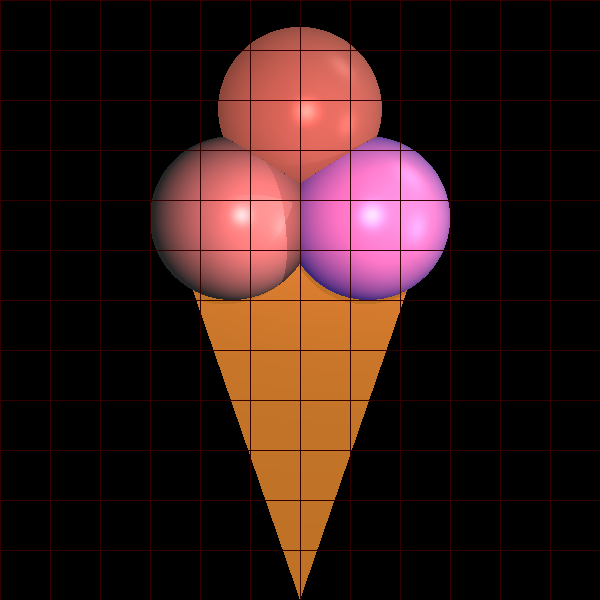
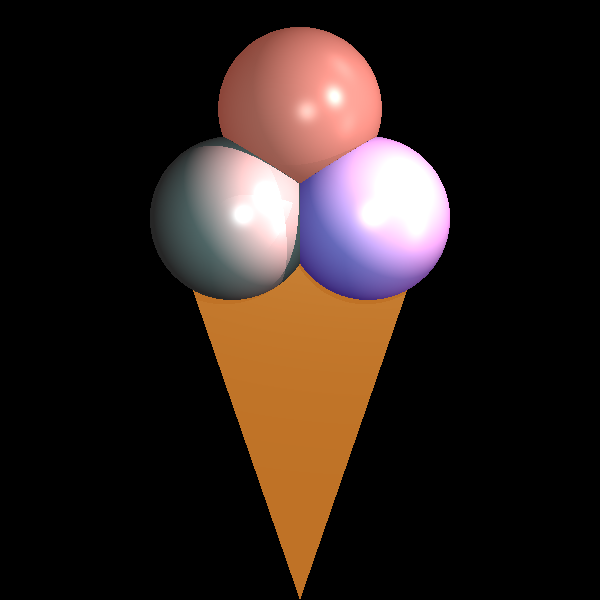
MiniProject1

diff --git a/src/renderer/Camera.java b/src/renderer/Camera.java
@@ -4,6 +4,8 @@
 package renderer;
 import static primitives.Util.*;
 
+import java.util.ArrayList;
+import java.util.List;
 import java.util.MissingResourceException;
 
 import primitives.*;
@@ -25,8 +27,8 @@ public class Camera {
     private double distance; // The distance of the camera display from the location
     private ImageWriter imageWriter; // The image writer used for output
     private RayTracerBase rayTracer; // The ray tracer used for rendering
-    private int numRowPixels;
-    private int numColPixels;
+    private int numOfRays=1;//the paramter of the number of rays
+   
 
     /**
      * Returns the location of the camera.
@@ -122,6 +124,7 @@ public class Camera {
         this.height = height;
         return this;
     }
+    
 
     /**
      * Sets the distance of the camera display.
@@ -133,6 +136,21 @@ public class Camera {
 		this.distance=distance;
 		return this;
 	}
+	/**
+	 * A setter function for parameter num of rays
+	 * this function return the object - this for builder pattern
+	 * 
+	 * @param The Camera object itself.
+	 * */
+	public Camera setNumOfRays(int numOfRays)
+	{
+		if(numOfRays == 0)
+			this.numOfRays=1;
+		else
+		 this.numOfRays = numOfRays;
+		return this;
+	}
+	
 	/**
 	 * Construction of a ray: produces a ray according to the position of a display point on the camera display 
 	 * and uses the use of the appropriate vector according to the position and angles of the camera.
@@ -197,8 +215,29 @@ public class Camera {
 	    throw new MissingResourceException("Missing filed in camera","","");
 	if (this.rayTracer == null)
 	throw new UnsupportedOperationException("Missing rayTracerBase");
+	for (int i = 0; i < imageWriter.getNx(); i++)
+	{
+		for (int j = 0; j < imageWriter.getNy(); j++)	
+		{
+			if(numOfRays == 1 || numOfRays == 0)
+			{
+				Ray ray = constructRay(imageWriter.getNx(), imageWriter.getNy(), j, i);
+				Color rayColor = rayTracer.traceRay(ray);
+				imageWriter.writePixel(j, i, rayColor); 
+			}
+			else
+			{	
+				List<Ray> rays = constructBeamThroughPixel(imageWriter.getNx(), imageWriter.getNy(), j, i,numOfRays);
+				Color rayColor = rayTracer.traceRay(rays);
+				imageWriter.writePixel(j, i, rayColor); 
+			}
+			
+		}
+	}
+	return this;
+	}
 
-	for (int i = 0; i < this.imageWriter.getNy(); i++) 
+	/*for (int i = 0; i < this.imageWriter.getNy(); i++) 
 	{
 	   for (int j = 0; j < this.imageWriter.getNx(); j++)
 	     {
@@ -209,7 +248,7 @@ public class Camera {
 	     }
 	}
 	return this;
-	}
+	}*/
 
 	/**
 
@@ -251,13 +290,7 @@ public class Camera {
             }
         }
     }
-	public Camera setPixels(int amountRowPixels, int amountColumnPixels) {
-	
-        this.numRowPixels = amountRowPixels;
-        this.numColPixels = amountColumnPixels;
-        return this;
-	}
-   
+
 	/**
 
 	Writes the image to an output file.
@@ -269,4 +302,78 @@ public class Camera {
 	this.imageWriter.writeToImage();
 	return this;
 	}
+	/**
+	 * Constructs a beam of rays passing through a specific pixel on the image plane.
+	 *
+	 * @param nX          The number of pixels in the X-axis of the image.
+	 * @param nY          The number of pixels in the Y-axis of the image.
+	 * @param j           The X-coordinate of the pixel.
+	 * @param i           The Y-coordinate of the pixel.
+	 * @param raysAmount  The desired number of rays in the beam.
+	 * @return A list of rays forming the beam passing through the specified pixel.
+	 * @throws IllegalArgumentException if the distance between the screen and the camera is 0.
+	 */
+	public List<Ray> constructBeamThroughPixel(int nX, int nY, int j, int i, int raysAmount) {
+	    // The distance between the screen and the camera cannot be 0
+	    if (isZero(distance)) {
+	        throw new IllegalArgumentException("distance cannot be 0");
+	    }
+
+	    int numOfRays = (int) Math.floor(Math.sqrt(raysAmount)); // number of rays in each row or column
+
+	    if (numOfRays == 1)
+	        return List.of(constructRay(nX, nY, j, i));
+
+	    double Ry = height / nY;
+	    double Rx = width / nX;
+	    double Yi = (i - (nY - 1) / 2d) * Ry;
+	    double Xj = (j - (nX - 1) / 2d) * Rx;
+
+	    double PRy = Ry / numOfRays; // height distance between each ray
+	    double PRx = Rx / numOfRays; // width distance between each ray
+
+	    List<Ray> sample_rays = new ArrayList<>();
+
+	    for (int row = 0; row < numOfRays; ++row) {
+	        for (int column = 0; column < numOfRays; ++column) {
+	            sample_rays.add(constructRaysThroughPixel(PRy, PRx, Yi, Xj, row, column)); // add the ray
+	        }
+	    }
+	    sample_rays.add(constructRay(nX, nY, j, i)); // add the center screen ray
+	    return sample_rays;
+	}
+
+	 /**
+     * In this function we treat each pixel like a little screen of its own and divide it to smaller "pixels".
+     * Through each one we construct a ray. This function is similar to ConstructRayThroughPixel.
+     * @param Ry height of each grid block we divided the pixel into
+     * @param Rx width of each grid block we divided the pixel into
+     * @param yi distance of original pixel from (0,0) on Y axis
+     * @param xj distance of original pixel from (0,0) on X axis
+     * @param j j coordinate of small "pixel"
+     * @param i i coordinate of small "pixel"
+     * @param distance distance of screen from camera
+     * @return beam of rays through pixel
+     */
+    private Ray constructRaysThroughPixel(double Ry,double Rx, double yi, double xj, int j, int i){
+        Point Pc = p0.add(vTo.scale(distance)); //the center of the screen point
+
+        double y_sample_i =  (i *Ry + Ry/2d); //The pixel starting point on the y axis
+        double x_sample_j=   (j *Rx + Rx/2d); //The pixel starting point on the x axis
+
+        Point Pij = Pc; //The point at the pixel through which a beam is fired
+        //Moving the point through which a beam is fired on the x axis
+        if (!isZero(x_sample_j + xj))
+        {
+            Pij = Pij.add(vRight.scale(x_sample_j + xj));
+        }
+        //Moving the point through which a beam is fired on the y axis
+        if (!isZero(y_sample_i + yi))
+        {
+            Pij = Pij.add(vUp.scale(-y_sample_i -yi ));
+        }
+        Vector Vij = Pij.subtract(p0);
+        return new Ray(Vij,p0);//create the ray throw the point we calculate here
+    }
+
 }

diff --git a/src/unittests/renderer/MiniProject1.java b/src/unittests/renderer/MiniProject1.java
@@ -1,0 +1,76 @@
+/**
+ * 
+ */
+package unittests.renderer;
+
+import org.junit.jupiter.api.Test;
+
+import geometries.*;
+import lighting.*;
+import primitives.*;
+import renderer.*;
+import scene.Scene;
+
+
+class MiniProject1 {
+
+	private Scene scene = new Scene("Test scene");
+
+	/**
+	 * Produce a picture of a two triangles lighted by a spot light with a partially
+	 * transparent Sphere producing partial shadow
+	 */
+	@Test
+	public void trianglesTransparentSphere() 
+	{
+		Camera camera = new Camera(new Point(0, 0, 1000), new Vector(0, 0, -1), new Vector(0, 1, 0)) //
+				.setVPSize(200, 200).setVPDistance(1000);
+
+		scene.setAmbientLight(new AmbientLight(new Color(java.awt.Color.WHITE), new Double3(0.15)));
+
+		scene.geometries.add( //
+
+				new Sphere(new Point(0, 0, 0), 80) //
+						.setEmission(new Color(java.awt.Color.yellow)) //
+						.setMaterial(new Material().setkD(0.2).setkS(0.2).setnShininess(30).setKt(0.6)));
+
+		scene.lights.add(new SpotLight(new Color(700, 400, 400), new Point(60, 50, 0), new Vector(0, 0, -1)) //
+				.setkL(4E-5).setkQ(2E-7));
+
+		ImageWriter imageWriter = new ImageWriter("before", 600, 600);
+
+				camera.setImageWriter(imageWriter) //
+				.setRayTracer(new RayTracerBasic(scene));
+
+		camera.renderImage();
+		camera.writeToImage();
+
+	}
+	
+	@Test
+	public void trianglesTransparentSphere2() 
+	{
+		int numOfRays=80;
+		Camera camera = new Camera(new Point(0, 0, 1000), new Vector(0, 0, -1), new Vector(0, 1, 0)) //
+				.setVPSize(200, 200).setVPDistance(1000);
+
+		scene.setAmbientLight(new AmbientLight(new Color(java.awt.Color.WHITE), new Double3(0.15)));
+
+		scene.geometries.add( //
+				new Sphere(new Point(0, 0, 0), 80) //
+				.setEmission(new Color(java.awt.Color.yellow)) //
+				.setMaterial(new Material().setkD(0.2).setkS(0.2).setnShininess(30).setKt(0.6)));
+
+		scene.lights.add(new SpotLight(new Color(700, 400, 400), new Point(60, 50, 0), new Vector(0, 0, -1)) //
+				.setkL(4E-5).setkQ(2E-7));
+
+		ImageWriter imageWriter = new ImageWriter("after", 600, 600);
+
+				camera.setImageWriter(imageWriter) //
+				.setRayTracer(new RayTracerBasic(scene)).setNumOfRays(numOfRays);
+
+		camera.renderImage();
+		camera.writeToImage();
+	}
+
+}

diff --git a/src/unittests/renderer/IceCream.java b/src/unittests/renderer/IceCream.java
@@ -28,7 +28,7 @@ scene.geometries.add( //
 new Sphere(new Point(25, -30, 100),30).setEmission(new Color(21,0, 81))
 .setMaterial(new Material().setkD(0.5).setkS(0.5).setnShininess(20).setKt(0).setKr(0)),
 new Triangle(new Point(-45, -20, 100), new Point(45, -20,100), new Point(0, 115, 150))
-.setEmission(new Color(153,76,0)).setMaterial(new Material().setkD(0).setkS(0.8).setnShininess(6)),
+.setEmission(new Color(153,76,0)).setMaterial(new Material().setkD(0).setkS(0.8).setnShininess(6).setKt(0.6)),
 new Sphere(new Point(-25, -30, 100),30).setEmission(new Color(java.awt.Color.BLACK))
                 .setMaterial(new Material().setkD(0.5).setkS(0.5).setnShininess(30)),
 new Sphere(new Point(0, -70, 100),30).setEmission(new Color(102, 32, 20))
@@ -39,14 +39,15 @@ new Plane(new Point(1500, 1500, 0),new Point(-1500, -1500, 3850), new Point(-150
                     .setEmission(new Color(java.awt.Color.BLACK).reduce(5))
                     .setMaterial(new Material().setkD(0.4).setkS(0.3).setnShininess(2000));
 scene.lights.add(new DirectionalLight(new Color(java.awt.Color.darkGray), new Vector(-0.5, 0.5, 0)));
-scene.lights.add(new SpotLight(new Color(1020, 400, 400),new Point(40,-40,-160), new Vector(-1, 1, 4))
+scene.lights.add(new SpotLight(new Color(255, 400, 400),new Point(40,-40,-160), new Vector(-1, 1, 4))
              .setkC(1).setkL(4E-4).setkQ(2E-5));
 scene.lights.add(new SpotLight(new Color(700, 400, 400),new Point(300, 30,0), new Vector(-2, 3, 3))
               .setkC(1).setkL(4E-4).setkQ(2E-5));
+scene.lights.add(new SpotLight(new Color(700, 400, 400),new Point(100,-100,0), new Vector(-2,1,1))
+        .setkC(1).setkL(4E-4).setkQ(2E-5));
 camera.setImageWriter(new ImageWriter("iceCream", 600, 600))
 .setRayTracer(new RayTracerBasic(scene));
 camera.renderImage(); //
-camera.printGrid(50, new Color(51,0,0));
 camera.writeToImage();
 
 }

diff --git a/src/renderer/RayTracerBasic.java b/src/renderer/RayTracerBasic.java
@@ -16,7 +16,7 @@ import scene.Scene;
 
 public class RayTracerBasic extends RayTracerBase
 {
-	private static final double DELTA = 0.1;
+	//private static final double DELTA = 0.1;
 	private static final int MAX_CALC_COLOR_LEVEL = 10;
 	private static final double MIN_CALC_COLOR_K = 0.001;
 	 private static final Double3 INIT_CALC_COLOR_K = Double3.ONE;
@@ -31,6 +31,24 @@ public class RayTracerBasic extends RayTracerBase
         return intersections == null ? scene.background : calcColor(ray.findClosestGeoPoint(intersections), ray);
     }
     /**
+	  * @param rays List of surrounding rays
+	  * @return average color
+	  */
+	 public Color traceRay(List<Ray> rays) 
+	 {
+	 	if(rays == null)
+	 		return scene.background;
+	     Color color = scene.background;
+	     for (Ray ray : rays) 
+	     {
+	     	color = color.add(traceRay(ray));
+	     }
+	     color = color.add(scene.ambientLight.getIntensity());
+	     int size = rays.size();
+	     return color.reduce(size);
+	
+	 }
+	
     
     /**
      * Calculates reflected ray and refraction ray
@@ -49,7 +67,6 @@ public class RayTracerBasic extends RayTracerBase
     }
 
     /**
-     * TODO
      * @param geoPoint
      * @param level
      * @param color
@@ -139,7 +156,8 @@ public class RayTracerBasic extends RayTracerBase
 
 
     
-    private boolean unshaded(GeoPoint geoPoint, Vector l, Vector n, LightSource lightSource) {
+    @SuppressWarnings("unused")
+	private boolean unshaded(GeoPoint geoPoint, Vector l, Vector n, LightSource lightSource) {
         Ray lightRay = new Ray(geoPoint.point, l.scale(-1), n);
         List<GeoPoint> intersections = scene.geometries.findGeoIntersections(lightRay);
 

diff --git a/src/renderer/RayTracerBase.java b/src/renderer/RayTracerBase.java
@@ -1,4 +1,6 @@
 package renderer;
+import java.util.List;
+
 import primitives.Color;
 import primitives.Ray;
 import scene.Scene;
@@ -20,11 +22,18 @@ public abstract class RayTracerBase
      * trace the ray and calculate the rey's intersection point color
      * and any other object (or the background if the rey's intersection point
      * doesn't exist)
-     *
      * @param ray
      * @return
      */
     abstract Color traceRay(Ray ray);
+    /**
+     * trace the rays and calculate the reys's intersection point color
+     * and any other object (or the background if the rey's intersection point
+     * @param rays
+     * @return
+     */
+    public abstract Color traceRay(List<Ray> rays);
+    
 }
 
 

diff --git a/src/primitives/Vector.java b/src/primitives/Vector.java
@@ -26,6 +26,7 @@ public Vector(Double3 xyz) {
 			throw new IllegalArgumentException("Vector coudlnt be 0");
 
     }
+
 @Override
 public boolean equals(Object o) {
     if (this == o) return true;
